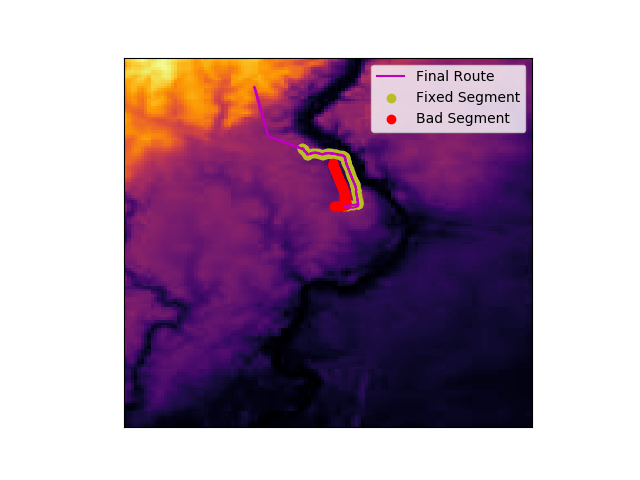
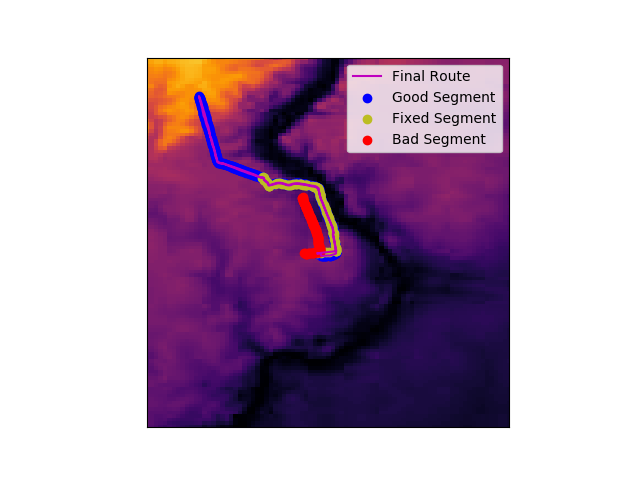
Updated plots

diff --git a/main.py b/main.py
@@ -105,7 +105,7 @@ R = 6371E3
 TO_RADIANS = pi / 180
 TO_MILES = 1 / 1609.34
 TO_MINUTES = 1 / 60
-PLOT = False
+PLOT = True
 
 #Load our .fit files
 bad_file = fitparse.FitFile("988J0721.FIT")  #Bad 0.92 miles file
@@ -191,9 +191,10 @@ for i in range(len(final_long)):
 if PLOT:
     plt.imshow(arr_ele, cmap = "inferno", extent = [x0, x1, y1, y0])
     plt.plot(final_long, final_lat, c = "m")
+    plt.scatter(good_long, good_lat, c = "b")
     plt.scatter(route_long, route_lat, c = "tab:olive")
     plt.scatter(bad_long, bad_lat, c = "r")
-    plt.legend(["Final Route", "Fixed Segment", "Bad Segment"])
+    plt.legend(["Final Route", "Good Segment", "Fixed Segment", "Bad Segment"])
     plt.tick_params(
         axis = "both",
         which = "both",
